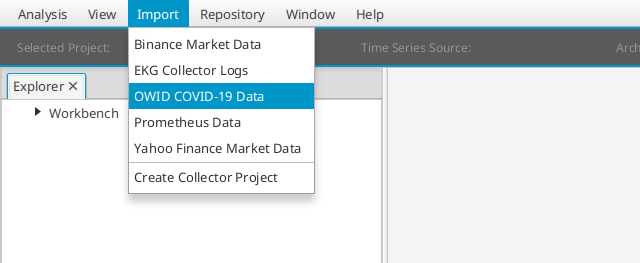
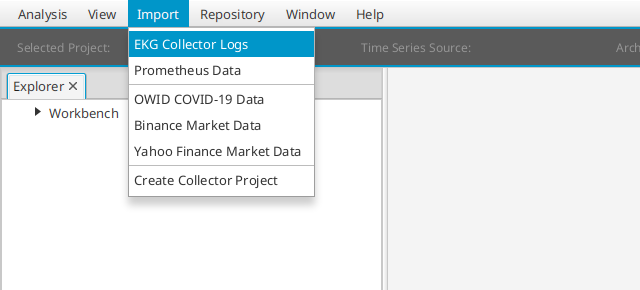
Handbook: the importers in the order of the menu
The Collector logs and Prometheus first, then the data sets that have
nothing to do with software. The dialog is shown with the one of the
Collector logs. The pictures of the menu and of the two dialogs are new:
the order of the menu and the English texts.

Changed region(s): [[0.0, 0.0304, 1.0, 0.7909]]

diff --git a/docs/handbook/workbench-importers.md b/docs/handbook/workbench-importers.md
@@ -2,12 +2,12 @@
 
 [Handbook home](README.md) · [Workbench](workbench.md) · [Extensions](extensions.md)
 
-An importer reads data that already exists somewhere into a project: the CSV files of a
-Collector, the history of a Prometheus server, or public data sets that have nothing to do with
-software. The Workbench has five. They are in the **Import** menu, in alphabetical order, and in
-the context menu of a project.
+An importer reads data that already exists somewhere into a project. The Workbench has five, in
+the **Import** menu and in the context menu of a project. The first two read what software
+systems measure: the CSV files of a Collector and the history of a Prometheus server. The other
+three, below the line, read public data sets that have nothing to do with software.
 
-![The Import menu with its five importers](../images/importer-menu.png)
+![The Import menu: the Collector logs and Prometheus first, then the three other data sets](../images/importer-menu.png)
 
 | Importer | Where the data comes from | What it reads |
 | --- | --- | --- |
@@ -24,7 +24,9 @@ it works without a connection.
 ## The dialog
 
 All importers share one dialog. Its upper half says where the data goes, its lower half where
-it comes from.
+it comes from. This is the one of the Collector logs:
+
+![The dialog of the Collector log importer](../images/importer-collector-csv-dialog.png)
 
 | Field | Meaning |
 | --- | --- |
@@ -40,15 +42,16 @@ it comes from.
 with `Import in series <project> successful.` The project then appears in the explorer below
 its repository.
 
-## EKG Collector Logs
+## What software systems measure
+
+### EKG Collector Logs
 
 **Where the data comes from.** From an external Collector with the CSV repository, which is the
 one it has unless told otherwise. It writes its files to `<log directory>/ekg/<start time>/`,
 one per job and day; see [CSV and archive](collector-repositories.md#csv-and-archive). Copy the
 directory to the workstation. This is the way for a collection behind a jump host or across an
-air gap, and for a frozen snapshot of an incident.
-
-![The dialog of the Collector log importer](../images/importer-collector-csv-dialog.png)
+air gap, and for a frozen snapshot of an incident. Its dialog is the one shown
+[above](#the-dialog); **Path Collector Logs** takes the directory.
 
 The importer reads every published format: the current one with the metadata of the job in its
 header, including the cloud-native dimensions, and the classic rows of Collectors before 6.1.
@@ -63,7 +66,7 @@ once: importing it again can store its values a second time.
 The picture shows four minutes of a host read with the source `unix`: the metrics of the file
 are in the explorer, and `\Cpu\us` is in the chart.
 
-## Prometheus Data
+### Prometheus Data
 
 **Where the data comes from.** From the HTTP API of a Prometheus server. **Repository URL** is
 the address of the server, such as `http://prometheus.example.org:9090`. The importer asks the
@@ -75,8 +78,8 @@ The dialog has a second part for the server:
 
 | Field | Meaning |
 | --- | --- |
-| Import-Zeitraum (the range to import) | The last 1, 2, 3, 5 or 10 days, or `Alle`: everything the server has. |
-| Repository URL | The address of the server. It can be entered once the project is named. |
+| Import Range | The last 1, 2, 3, 5 or 10 days, or `All`: everything the server has. |
+| Repository URL | The address of the server. It can be entered once the project is named, and **Import Data** can be pressed once it is entered. |
 | Authentication Type | None, user name and password, a JWT bearer token, or OAuth2 client credentials with the address of the OAuth server. |
 
 With **Project Time Series Source** the importer does one of two things:
@@ -123,7 +126,13 @@ The Workbench can also collect from a Prometheus server continuously, with
 [Data Sources and New Analysis](workbench.md#data-sources-and-new-analysis). The importer is
 for a range of the past.
 
-## OWID COVID-19 Data
+## Data that has nothing to do with software
+
+The data model of Software-EKG is not bound to servers and processes: a series is a metric of
+something that belongs to a group. These three importers show it with a pandemic and two
+markets, and they are a quick way to try the charts without a system to measure.
+
+### OWID COVID-19 Data
 
 **Where the data comes from.** From [Our World in Data](https://ourworldindata.org/coronavirus),
 which publishes its COVID-19 data set as one CSV file. The header of the dialog names the file
@@ -155,9 +164,9 @@ A value of 0 is not stored, and neither is a text.
 
 The picture shows what the data model is good for beyond software: below *Europe* the node `*`
 stands for all its countries, and a double click on `hosp_patients_per_million` puts them into
-one chart. This module demonstrates that EKG is a general comparative time-series tool.
+one chart.
 
-## Binance Market Data
+### Binance Market Data
 
 **Where the data comes from.** From `data.binance.vision`, where the exchange Binance publishes
 its market data as files. The importer reads the aggregated trades of the spot market
@@ -194,7 +203,7 @@ Quote Asset and Symbol are stored in the cloud-native dimensions namespace and s
 The picture shows the month of a small symbol, 336,270 trades. A month of a large one such as
 `BTCUSDT` has many millions; begin with a single file.
 
-## Yahoo Finance Market Data
+### Yahoo Finance Market Data
 
 **Where the data comes from.** From Yahoo Finance, fetched with the Python library
 [`yfinance`](https://github.com/ranaroussi/yfinance). There is no file to download as with the
